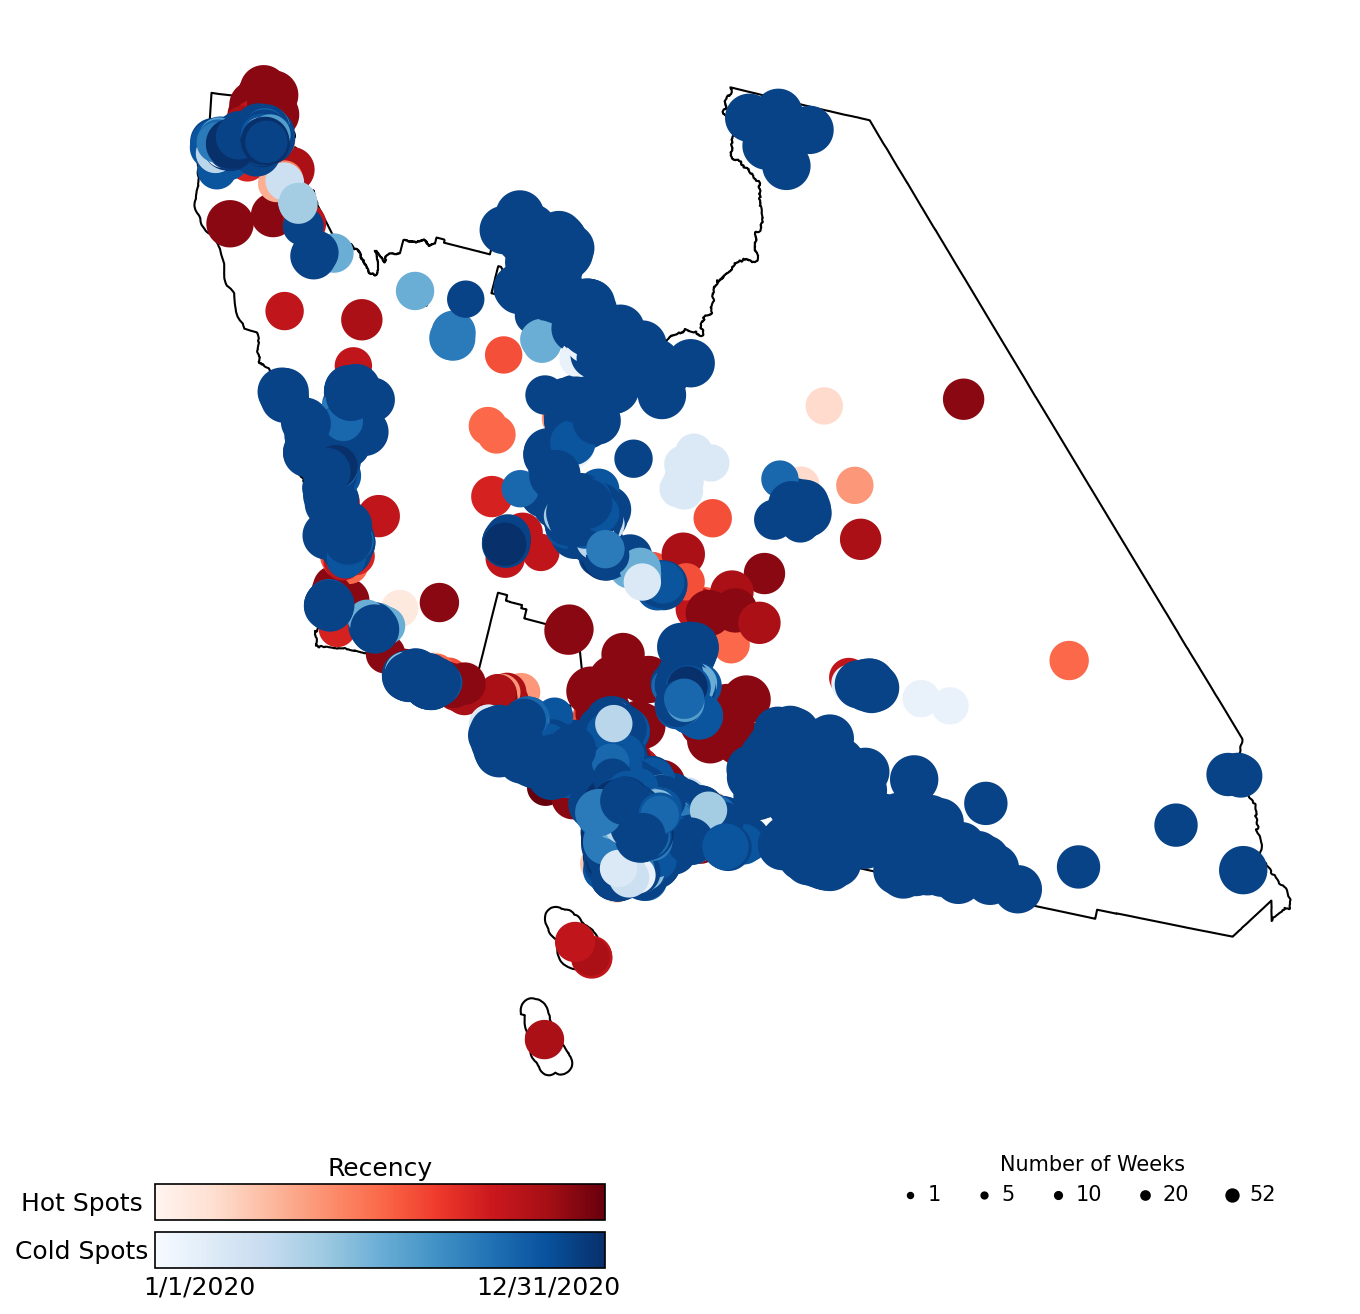
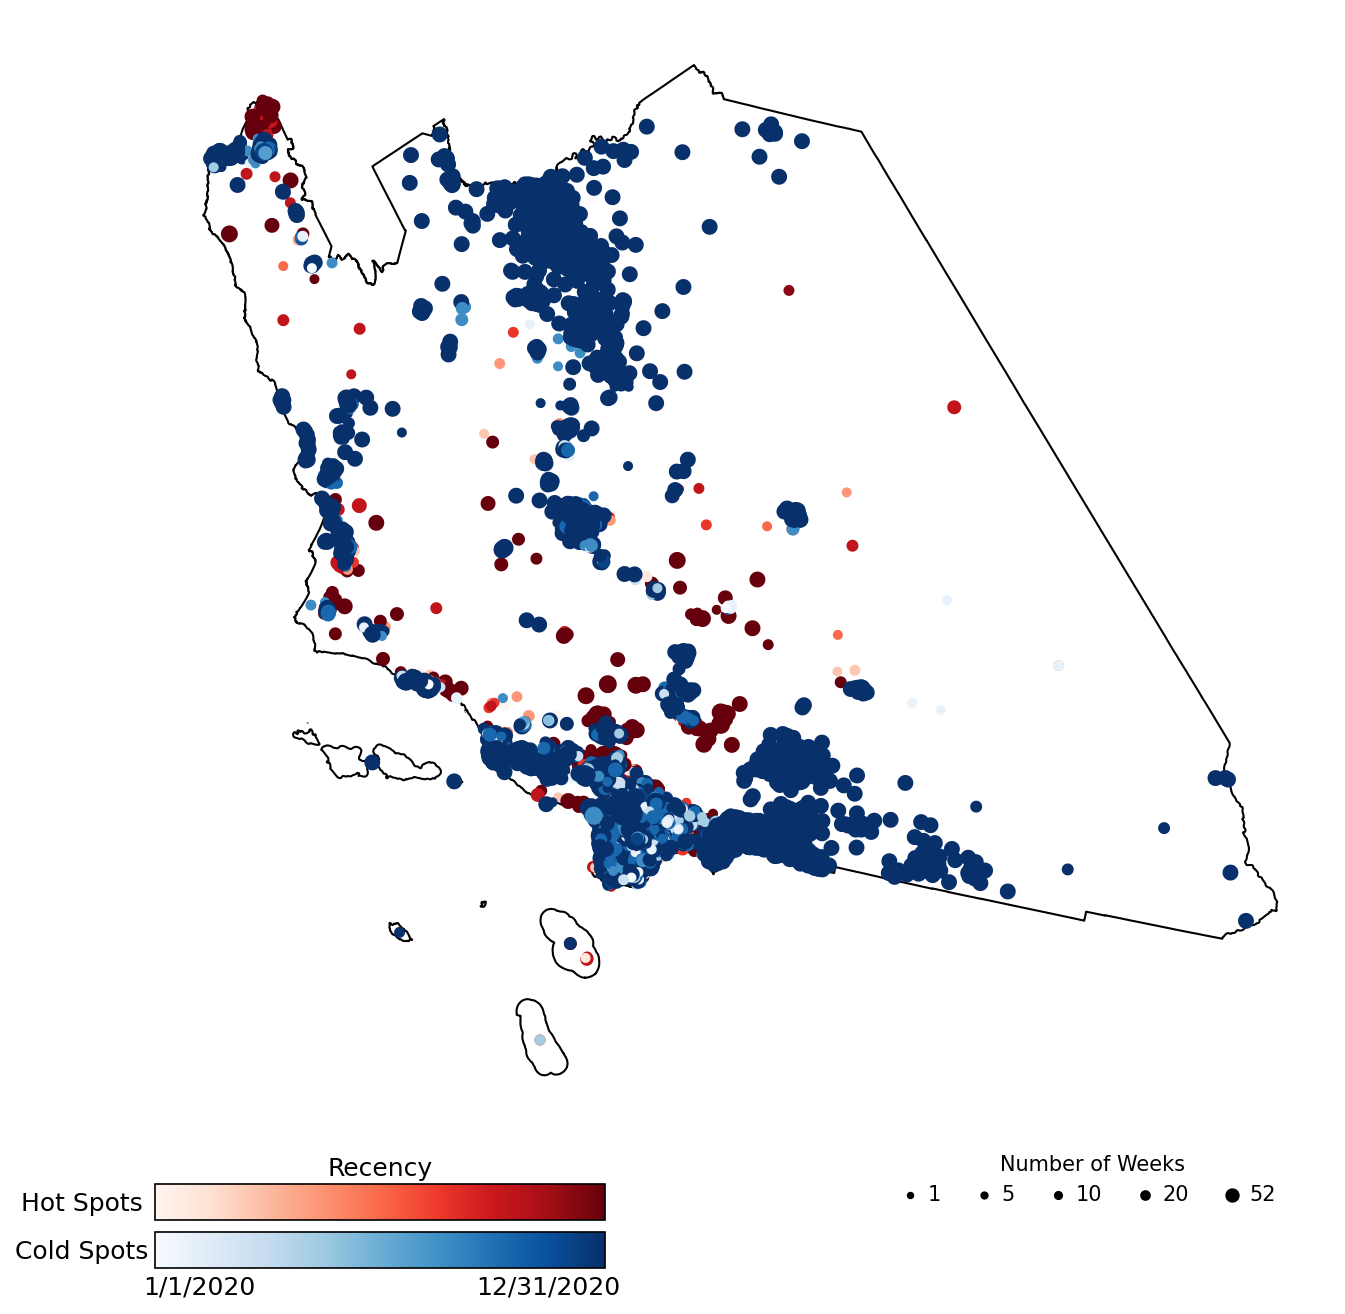
updates

diff --git a/VASA/static_choropleth.py b/VASA/static_choropleth.py
@@ -157,7 +157,8 @@ class StackedChoropleth:
                 map_copy = gpd_map.copy()
 
                 map_copy["geometry"] = [
-                    col.centroid.buffer(10000 + 11000/40 * count)
+                    col.centroid.buffer(2500 + 11000/40 * count)
+                    # col.centroid.buffer(10000 + 11000/40 * count)
                     for col, count in zip(map_copy['geometry'], self._collapse_count_combined[col])
                 ]
                 # Row wise:
@@ -190,8 +191,8 @@ class StackedChoropleth:
 
                 #self.__show_country_outline(ax, gpd_map)
                 self.__show_state_outline(ax, gpd_map)
-                self.__create_choropleth_map(hots[col], ax, map_copy, self.__get_pallete("Reds"), norm)
-                self.__create_choropleth_map(colds[col], ax, map_copy, self.__get_pallete("Blues"), norm)
+                self.__create_choropleth_map(hots[col], ax, map_copy, self.__get_pallete("Reds"), norm, edgecolor='white')
+                self.__create_choropleth_map(colds[col], ax, map_copy, self.__get_pallete("Blues"), norm, edgecolor='white')
                 
         if len(self._titles) == 1:
             fig.suptitle(self._titles[0], fontsize=self._plot_title_size)
@@ -227,8 +228,8 @@ class StackedChoropleth:
 
                 #self.__show_country_outline(ax, gpd_map)
                 self.__show_state_outline(ax, gpd_map)
-                self.__create_choropleth_map(hots[col], ax, gpd_map, self.__get_pallete("Reds"), norm)
-                self.__create_choropleth_map(colds[col], ax, gpd_map, self.__get_pallete("Blues"), norm)
+                self.__create_choropleth_map(hots[col], ax, gpd_map, self.__get_pallete("Reds"), norm, edgecolor='black')
+                self.__create_choropleth_map(colds[col], ax, gpd_map, self.__get_pallete("Blues"), norm, edgecolor='black')
         
         self.__create_choropleth_legend_horiz(fig, typ, labels)
 
@@ -238,7 +239,7 @@ class StackedChoropleth:
     def __create_choropleth_map(self, data, ax, gpd_map, palette, norm, **kwargs):
         gpd_map \
             .assign(cl = data) \
-            .plot(column='cl', k=2, cmap=palette, edgecolor='black', ax=ax, linewidth=0, norm=norm, **kwargs)
+            .plot(column='cl', k=2, cmap=palette, ax=ax, linewidth=0, norm=norm, **kwargs)
 
     def __create_choropleth_legend_horiz(self, fig, typ, labels):
         #
@@ -408,8 +409,8 @@ class StackedChoropleth:
                 #self.__show_country_outline(ax, gpd_map)
                 self.__show_state_outline(ax_hot, gpd_map)
                 self.__show_state_outline(ax_cold, gpd_map)
-                self.__create_choropleth_map(hots[map_idx + j], ax_hot, gpd_map, self.__get_pallete("Reds"), norm)
-                self.__create_choropleth_map(colds[map_idx + j], ax_cold, gpd_map, self.__get_pallete("Blues"), norm)
+                self.__create_choropleth_map(hots[map_idx + j], ax_hot, gpd_map, self.__get_pallete("Reds"), norm, edgecolor='black')
+                self.__create_choropleth_map(colds[map_idx + j], ax_cold, gpd_map, self.__get_pallete("Blues"), norm, edgecolor='black')
         
 
         utility.save_plot(self._desc)
@@ -446,8 +447,8 @@ class StackedChoropleth:
 
                 #self.__show_country_outline(ax, gpd_map)
                 self.__show_state_outline(ax, gpd_map)
-                self.__create_choropleth_map(hots[map_idx + j], ax, gpd_map, self.__get_pallete("Reds"), norm)
-                self.__create_choropleth_map(colds[map_idx + j], ax, gpd_map, self.__get_pallete("Blues"), norm)
+                self.__create_choropleth_map(hots[map_idx + j], ax, gpd_map, self.__get_pallete("Reds"), norm, edgecolor='black')
+                self.__create_choropleth_map(colds[map_idx + j], ax, gpd_map, self.__get_pallete("Blues"), norm, edgecolor='black')
         
 
 

diff --git a/VASA/scatter.py b/VASA/scatter.py
@@ -2,6 +2,7 @@ import matplotlib.pyplot as plt
 import seaborn as sns
 import pandas as pd
 import numpy as np
+from scipy.stats import mode
 import math
 from typing import List
 
@@ -20,7 +21,7 @@ class Scatter(BasePlot):
 
     # plot args for like colors??
     # showLines: bool or List[int] # fips
-    def plot(self, titles: str or List[str] = ""):
+    def plot(self, highlight: str = "", titles: str or List[str] = ""):
         fig, axes = plt.subplots(
             math.ceil(len(self.v.cols) / 2),
             min(len(self.v.cols), 2),
@@ -60,14 +61,53 @@ class Scatter(BasePlot):
                 axis="columns"
             )
 
-            points = points[["recent", "count", "which"]].dropna().groupby(["count", "recent"]).agg(np.mean)
+            points = points[["recent", "count", "which"]].dropna().groupby(["count", "recent"]).agg(np.mean).reset_index()
 
 
             self.__create_scatter(ax, points)
             self.__axis_format(ax)
 
+            print(points)
+
+            if highlight != "":
+                self.__draw_lines(highlight, col, ax, [np.min(points["count"]), np.max(points["count"])])
+
         self.plotted = True
         #return self.fig
+
+    def __draw_lines(self, highlight, col, ax, mm):
+        to_select = [self.v.group_summary(f) == highlight for f in self.v.fips_order]
+        lines = np.array(self.v.df[col].tolist())[:, to_select]
+
+        color = mode(lines).mode[0]
+        for i, val in enumerate(color):
+            if val == 0:
+                continue
+
+            color = "#d3d3d3"
+
+            count = np.sum(lines[:, i] != 0)
+            alpha = 0.05
+
+            if count == mm[0] or count == mm[1]:
+                print(count, mm)
+                if val == 1:
+                    color = "red"
+                else:
+                    color = "blue"
+                alpha = 1
+                print("HERE")
+
+            self.__draw_line(ax, lines[:, i], val, color, alpha)
+
+    def __draw_line(self, ax, xs, val, color, alpha):
+        ax.plot(
+            np.arange(1, len(xs) + 1),
+            np.cumsum(xs == val),
+            c=color,
+            alpha=alpha
+        )
+
 
     def __create_scatter(self, ax, df: pd.DataFrame):
         sns.scatterplot(
